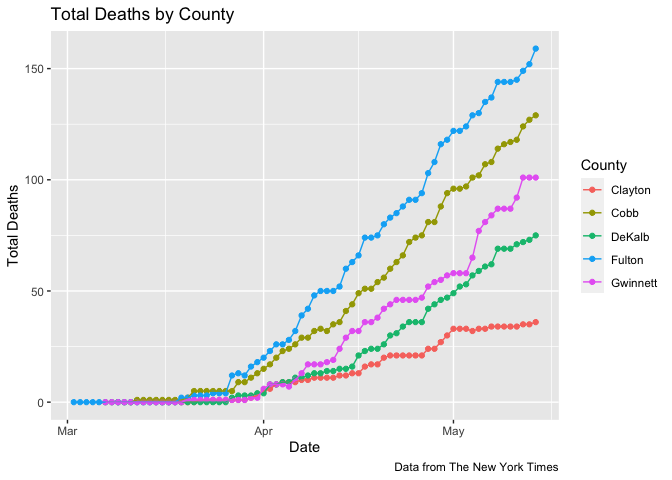
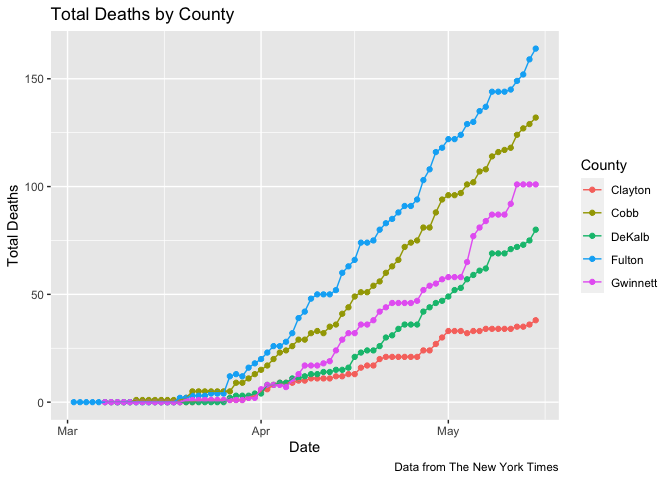
Removed custom span on geom_smooth, updated data

diff --git a/Metro_Atlanta_COVID.md b/Metro_Atlanta_COVID.md
@@ -16,7 +16,7 @@ It’s hard to know how to interpret these numbers since there are major
 known unknowns. Neither confirmed cases nor deaths can be said to be
 reliable counts of the true numbers.
 
-Data current as of May 15,
+Data current as of May 16,
 2020.
 
 # Metro Atlanta
